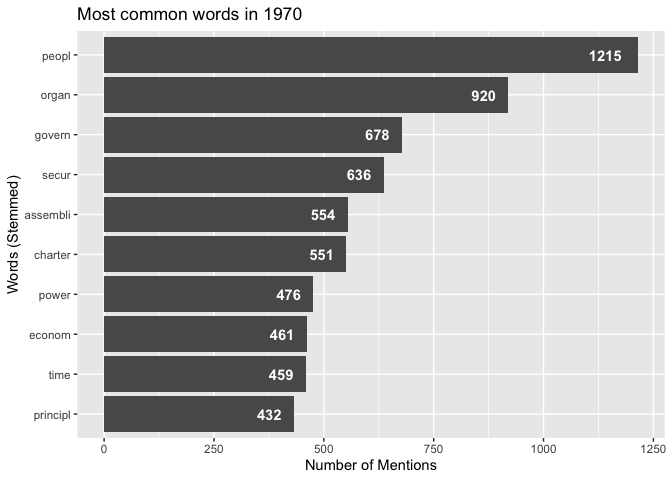
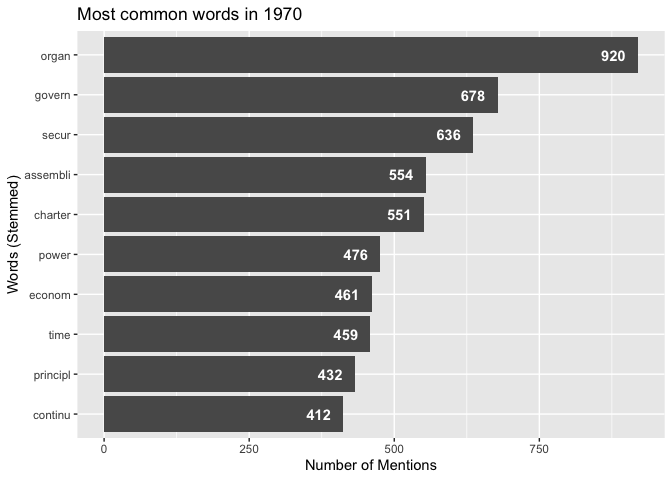
Updated for Soltoff Review

diff --git a/Global_South.md b/Global_South.md
@@ -43,7 +43,7 @@ Mikhaylov.
 
 ``` r
 unigrams_corpus_1970on <- read_tsv(here::here("Data", "unigrams_mikhaylov_project.tsv")) %>%
-  select(Session, Year, Country, word_stem)
+  select(Session, Year, Country, word, word_stem)
 
 bigrams_corpus_1970on <- read_tsv(here::here("Data", "bigrams_mikhaylov_project.tsv")) %>%
   select(Session, Year, Country, first_word_stem, second_word_stem, word_stem)
@@ -57,18 +57,18 @@ Unigrams
 kable(unigrams_corpus_1970on %>% slice(1:10))
 ```
 
-| Session | Year | Country | word\_stem |
-| ------: | ---: | :------ | :--------- |
-|      25 | 1970 | Albania | convei     |
-|      25 | 1970 | Albania | presid     |
-|      25 | 1970 | Albania | congratul  |
-|      25 | 1970 | Albania | albanian   |
-|      25 | 1970 | Albania | deleg      |
-|      25 | 1970 | Albania | elect      |
-|      25 | 1970 | Albania | presid     |
-|      25 | 1970 | Albania | twenti     |
-|      25 | 1970 | Albania | session    |
-|      25 | 1970 | Albania | assembli   |
+| Session | Year | Country | word            | word\_stem |
+| ------: | ---: | :------ | :-------------- | :--------- |
+|      25 | 1970 | Albania | convey          | convei     |
+|      25 | 1970 | Albania | president       | presid     |
+|      25 | 1970 | Albania | congratulations | congratul  |
+|      25 | 1970 | Albania | albanian        | albanian   |
+|      25 | 1970 | Albania | delegation      | deleg      |
+|      25 | 1970 | Albania | election        | elect      |
+|      25 | 1970 | Albania | presidency      | presid     |
+|      25 | 1970 | Albania | twenty          | twenti     |
+|      25 | 1970 | Albania | session         | session    |
+|      25 | 1970 | Albania | assembly        | assembli   |
 
 Bigrams
 
@@ -98,7 +98,11 @@ UN_stop_words <- tibble(words = c("nation",
                                   "countri", 
                                   "develop", 
                                   "peac",
-                                  "world"
+                                  "world",
+                                  "peopl",
+                                  # Stops countries from counting their own names as very commonly repeated words. 
+                                  # Stripping removes casing. This takes codelist from countrycode.
+                                  strip(codelist$country.name.en)
                                   ))
 ```
 
@@ -167,6 +171,69 @@ time in the following countries:
 *Indonesia *Algeria *Kenya *Mexico \*Egypt
 
 Here is what emerged based on this analysis.
+
+``` r
+indonesia_count_word_year <- unigrams_corpus_1970on %>%
+  filter(Country == "Indonesia") %>%
+  anti_join(UN_stop_words, by = c("word_stem" = "words")) %>%
+#  mutate(Year = cut(Year, breaks=c(1970, 1975, 1980, 1985, 1990, 1995, 2000, 2005, 2010, 2015, 2018), right = FALSE)) %>%
+  group_by(Year, word_stem) %>%
+  count() %>%
+  group_by(Year) %>%
+  top_n(n = 5) %>%
+  arrange(desc(n), .by_group = TRUE) %>%
+  ungroup() %>%
+  mutate(Year = as.factor(Year)) %>%
+  slice(1:28)
+#  slice(1:40)
+indonesia_count_word_year
+```
+
+    ## # A tibble: 28 x 3
+    ##    Year  word_stem     n
+    ##    <fct> <chr>     <int>
+    ##  1 1970  deleg        13
+    ##  2 1970  econom        8
+    ##  3 1970  govern        8
+    ##  4 1970  hope          8
+    ##  5 1970  sea           8
+    ##  6 1971  resolut      14
+    ##  7 1971  hope         12
+    ##  8 1971  secur        12
+    ##  9 1971  continu      11
+    ## 10 1971  confer        9
+    ## # … with 18 more rows
+
+``` r
+# paste(indonesia_count_word_year$word_stem, indonesia_count_word_year$n, sep = ", ")
+
+ggplot(data = indonesia_count_word_year, mapping = aes(x = Year, y = n, label = word_stem)) +
+  geom_col(aes(group = sort(as.factor(word_stem), decreasing = TRUE)), color = "White", position = "dodge") +
+  geom_text(position = position_dodge(0.9), aes(group = sort(as.factor(word_stem), decreasing = TRUE), hjust = 1.5), color = "White") +
+  labs(title = "ggplot with decreasing as the item") +
+  coord_flip()
+```
+
+![](Global_South_files/figure-gfm/unnamed-chunk-7-1.png)<!-- -->
+
+``` r
+ggplot(data = indonesia_count_word_year, mapping = aes(x = Year, y = n, label = word_stem)) +
+  geom_col(aes(group = sort(as.factor(word_stem), descending = TRUE)), color = "White", position = "dodge") +
+  geom_text(position = position_dodge(0.9), aes(group = sort(as.factor(word_stem), descending = TRUE), hjust = 1.5), color = "White") +
+  labs(title = "ggplot with descending as the item") +
+  coord_flip()
+```
+
+![](Global_South_files/figure-gfm/unnamed-chunk-7-2.png)<!-- -->
+
+``` r
+ggplot(data = indonesia_count_word_year, mapping = aes(x = Year, y = n, label = word_stem)) +
+  geom_col(aes(group = word_stem), color = "White", position = "dodge") +
+  geom_text(position = position_dodge(0.9), aes(group = word_stem, hjust = 1.5), color = "White") +
+  coord_flip()
+```
+
+![](Global_South_files/figure-gfm/unnamed-chunk-7-3.png)<!-- -->
 
 ``` r
 indonesia <- unigrams_corpus_1970on %>%
